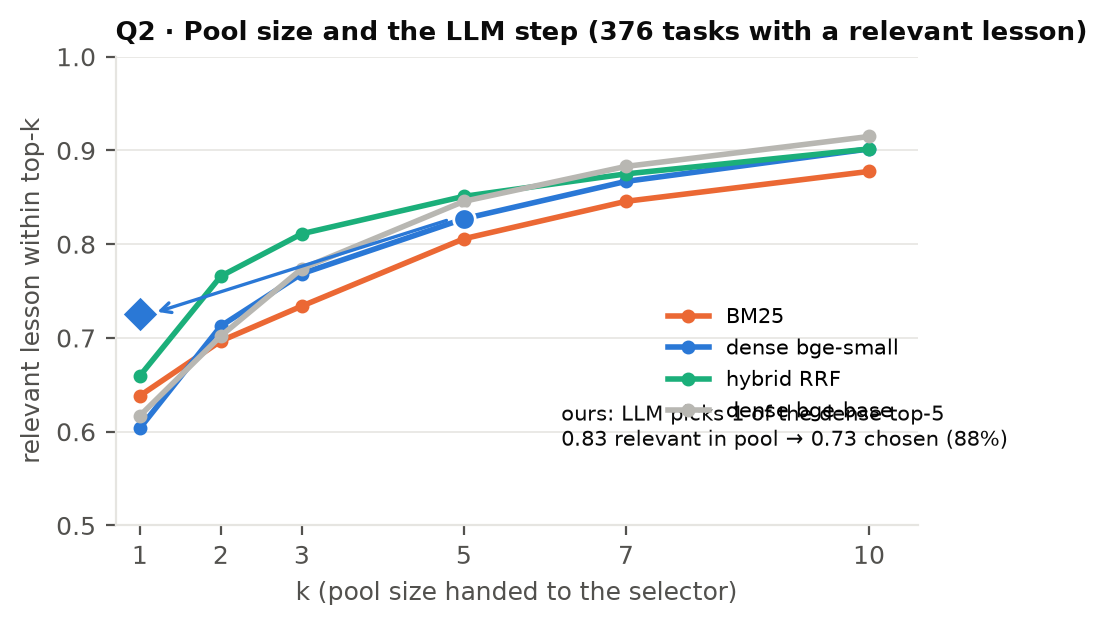
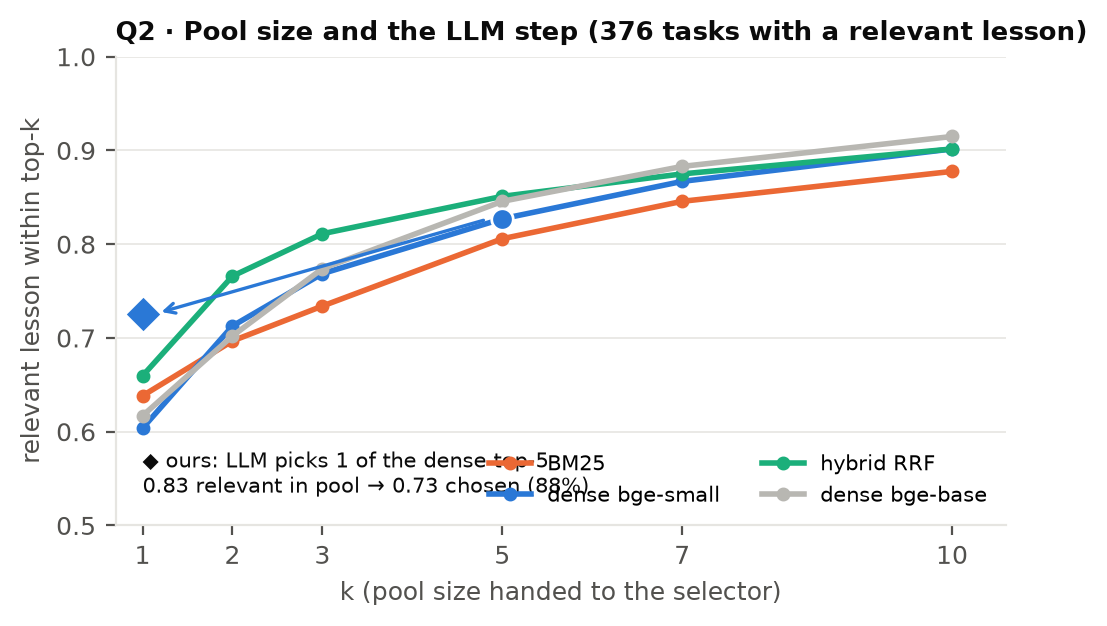
R2: move annotation/legend apart

diff --git a/scripts/retrieval_suite_figures.py b/scripts/retrieval_suite_figures.py
@@ -25,8 +25,8 @@ for m, c, lb in (('bm25', ORANGE, 'BM25'), ('dense[bge-small]', BLUE, 'dense bge
 ours = [c for c in S['comparison'] if c['method'] == 'ours(as-run)'][0]['recall']; pool5 = S['recall_at_k']['dense[bge-small]']['5']
 ax.scatter([5], [pool5], s=60, color=BLUE, zorder=5, edgecolors='white'); ax.scatter([1], [ours], s=90, color=BLUE, marker='D', zorder=6, edgecolors='white')
 ax.annotate('', xy=(1.15, ours), xytext=(4.85, pool5), arrowprops=dict(arrowstyle='->', color=BLUE, lw=1.2))
-ax.text(6.2, 0.585, f'ours: LLM picks 1 of the dense top-5\n{pool5:.2f} relevant in pool → {ours:.2f} chosen ({ours/pool5:.0%})', fontsize=7.5, color=INK, ha='left')
-ax.legend(fontsize=7.5, loc='lower right', bbox_to_anchor=(1.0, 0.18), ncol=1)
+ax.text(1.0, 0.535, f'◆ ours: LLM picks 1 of the dense top-5\n{pool5:.2f} relevant in pool → {ours:.2f} chosen ({ours/pool5:.0%})', fontsize=7.5, color=INK, ha='left')
+ax.legend(fontsize=7.5, loc='lower right', bbox_to_anchor=(1.0, 0.0), ncol=2)
 ax.set_xticks(ks); ax.set_xlim(0.7, 10.6); ax.set_ylim(0.5, 1.0); ax.set_xlabel('k (pool size handed to the selector)'); ax.set_ylabel('relevant lesson within top-k'); ax.grid(axis='x', visible=False)
 ax.set_title('Q2 · Pool size and the LLM step (376 tasks with a relevant lesson)', loc='left'); save(fig, 'R2_pool_size_llm_step')
 # R3: ablations of our read path (bars)
